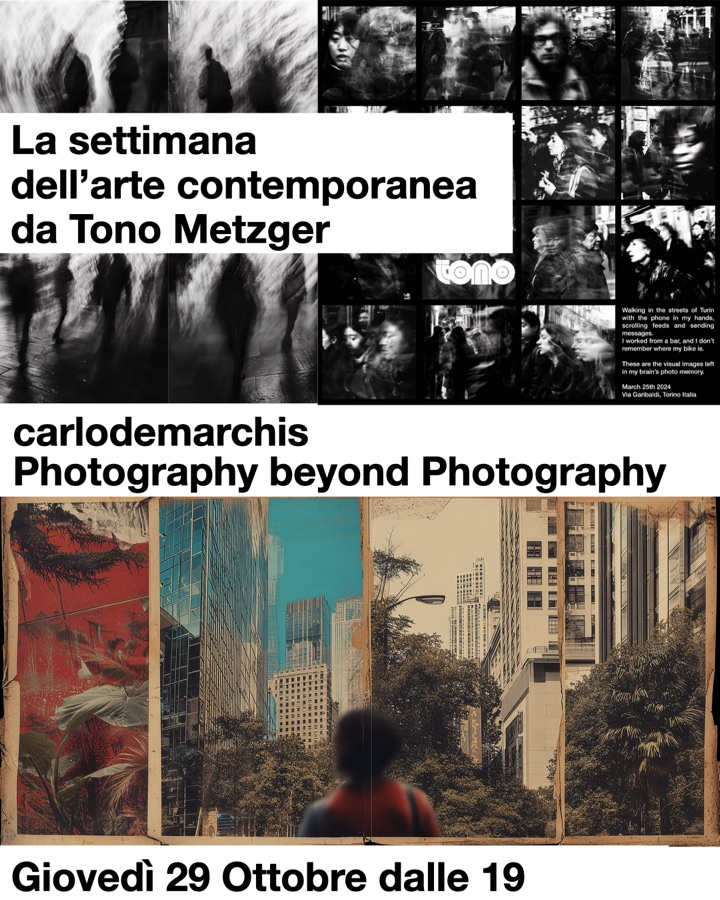
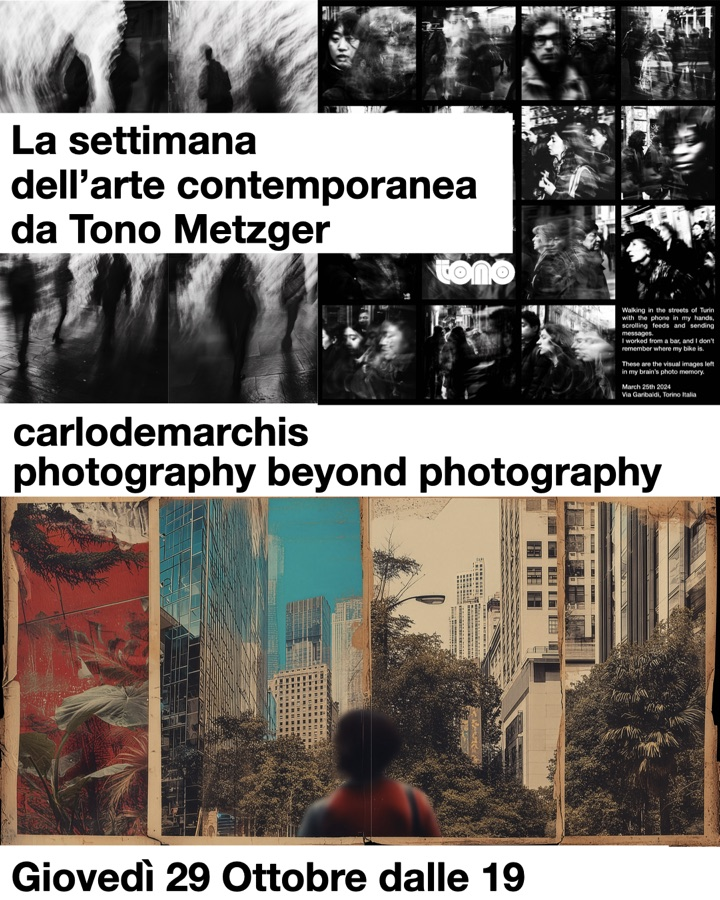
home hero: zoomed, darkened tempospazio backdrop on landscape screens

Changed region(s): [[0.0, 0.4978, 0.9167, 0.56]]

diff --git a/docs/style.css b/docs/style.css
@@ -55,7 +55,16 @@ p a{text-decoration:underline;text-underline-offset:3px}
 @media (max-width:640px){.top{flex-direction:column;align-items:flex-start;gap:14px}.nav{gap:18px;font-size:14px}}
 
 /* hero (home) */
-.hero{background:#000;color:#fff;display:grid;grid-template-columns:1.05fr 1fr;gap:clamp(24px,4vw,64px);padding:clamp(40px,7vw,96px) var(--gut);align-items:center}
+.hero{background:#000;color:#fff;display:grid;grid-template-columns:1.05fr 1fr;gap:clamp(24px,4vw,64px);padding:clamp(40px,7vw,96px) var(--gut);align-items:center;position:relative;overflow:hidden;isolation:isolate}
+.hero-bg{display:none}
+@media (orientation:landscape) and (min-width:861px){
+  .hero.has-bg{min-height:min(92vh,980px)}
+  .hero-bg{display:block;position:absolute;inset:-12%;width:124%;height:124%;object-fit:cover;object-position:50% 40%;z-index:-2;
+    transform:scale(1.9);transform-origin:52% 45%;image-rendering:pixelated;filter:grayscale(1) brightness(.32) contrast(1.25) saturate(0)}
+  .hero.has-bg::after{content:"";position:absolute;inset:0;z-index:-1;background:linear-gradient(90deg,rgba(0,0,0,.78) 0%,rgba(0,0,0,.45) 55%,rgba(0,0,0,.65) 100%),radial-gradient(120% 90% at 50% 50%,rgba(0,0,0,0) 40%,rgba(0,0,0,.7) 100%)}
+  .hero.has-bg .hero-sub{color:#d6d6d6}
+  .hero.has-bg .tile{box-shadow:0 30px 60px -30px rgba(0,0,0,.9)}
+}
 .hero-text{max-width:var(--max)}
 .hero-tag{font-size:clamp(20px,2.6vw,34px);font-weight:700;letter-spacing:-.03em;margin:18px 0 10px}
 .hero-sub{color:#bdbdbd;max-width:46ch;font-size:17px;margin:0 0 28px}

diff --git a/static/style.css b/static/style.css
@@ -55,7 +55,16 @@ p a{text-decoration:underline;text-underline-offset:3px}
 @media (max-width:640px){.top{flex-direction:column;align-items:flex-start;gap:14px}.nav{gap:18px;font-size:14px}}
 
 /* hero (home) */
-.hero{background:#000;color:#fff;display:grid;grid-template-columns:1.05fr 1fr;gap:clamp(24px,4vw,64px);padding:clamp(40px,7vw,96px) var(--gut);align-items:center}
+.hero{background:#000;color:#fff;display:grid;grid-template-columns:1.05fr 1fr;gap:clamp(24px,4vw,64px);padding:clamp(40px,7vw,96px) var(--gut);align-items:center;position:relative;overflow:hidden;isolation:isolate}
+.hero-bg{display:none}
+@media (orientation:landscape) and (min-width:861px){
+  .hero.has-bg{min-height:min(92vh,980px)}
+  .hero-bg{display:block;position:absolute;inset:-12%;width:124%;height:124%;object-fit:cover;object-position:50% 40%;z-index:-2;
+    transform:scale(1.9);transform-origin:52% 45%;image-rendering:pixelated;filter:grayscale(1) brightness(.32) contrast(1.25) saturate(0)}
+  .hero.has-bg::after{content:"";position:absolute;inset:0;z-index:-1;background:linear-gradient(90deg,rgba(0,0,0,.78) 0%,rgba(0,0,0,.45) 55%,rgba(0,0,0,.65) 100%),radial-gradient(120% 90% at 50% 50%,rgba(0,0,0,0) 40%,rgba(0,0,0,.7) 100%)}
+  .hero.has-bg .hero-sub{color:#d6d6d6}
+  .hero.has-bg .tile{box-shadow:0 30px 60px -30px rgba(0,0,0,.9)}
+}
 .hero-text{max-width:var(--max)}
 .hero-tag{font-size:clamp(20px,2.6vw,34px);font-weight:700;letter-spacing:-.03em;margin:18px 0 10px}
 .hero-sub{color:#bdbdbd;max-width:46ch;font-size:17px;margin:0 0 28px}

diff --git a/docs/index.html b/docs/index.html
@@ -11,7 +11,7 @@
 <meta property="og:description" content="Carlo De Marchis — photography beyond photography. AI-generated black and white photography for storytelling and social provocation. Projects, photobooks and exhibitions.">
 <meta property="og:image" content="https://art.carlodemarchis.it/img/project/123-afc15f.jpg"><meta name="twitter:card" content="summary_large_image">
 <link rel="icon" href="/favicon.svg" type="image/svg+xml">
-<link rel="stylesheet" href="/style.css?v=5">
+<link rel="stylesheet" href="/style.css?v=6">
 </head>
 <body class="page-home">
 <a class="skip" href="#main">Skip to content</a>
@@ -33,8 +33,8 @@
   </nav>
 </header>
 <main id="main">
-<section class="hero">
-  <div class="hero-text">
+<section class="hero has-bg">
+<img class="hero-bg" src="/img/site/251-94a0b2-s.jpg" width="2000" height="2000" alt="" aria-hidden="true">  <div class="hero-text">
     <h1 class="wordmark-xl">carlodemarchis</h1>
     <p class="hero-tag">photography beyond photography</p>
     <p class="hero-sub">AI-generated black & white photography for storytelling and social provocation — plus new work in colour.</p>

diff --git a/docs/projects/torino-moves/index.html b/docs/projects/torino-moves/index.html
@@ -11,7 +11,7 @@
 <meta property="og:description" content="A site-specific, room-specific, glass-specific AI photography project: a black and white Torino in movement, printed on the meeting-room glass of Reply&#39;s new headquarters — each image built from the letters of its own prompt.">
 <meta property="og:image" content="https://art.carlodemarchis.it/img/project/248-98f637.jpg"><meta name="twitter:card" content="summary_large_image">
 <link rel="icon" href="/favicon.svg" type="image/svg+xml">
-<link rel="stylesheet" href="/style.css?v=5">
+<link rel="stylesheet" href="/style.css?v=6">
 </head>
 <body class="page-projects">
 <a class="skip" href="#main">Skip to content</a>

diff --git a/docs/projects/index.html b/docs/projects/index.html
@@ -11,7 +11,7 @@
 <meta property="og:description" content="Carlo De Marchis — photography beyond photography. AI-generated black and white photography for storytelling and social provocation. Projects, photobooks and exhibitions.">
 <meta property="og:image" content="https://art.carlodemarchis.it/img/project/123-afc15f.jpg"><meta name="twitter:card" content="summary_large_image">
 <link rel="icon" href="/favicon.svg" type="image/svg+xml">
-<link rel="stylesheet" href="/style.css?v=5">
+<link rel="stylesheet" href="/style.css?v=6">
 </head>
 <body class="page-projects">
 <a class="skip" href="#main">Skip to content</a>

diff --git a/docs/exhibitions/index.html b/docs/exhibitions/index.html
@@ -11,7 +11,7 @@
 <meta property="og:description" content="Carlo De Marchis — photography beyond photography. AI-generated black and white photography for storytelling and social provocation. Projects, photobooks and exhibitions.">
 <meta property="og:image" content="https://art.carlodemarchis.it/img/project/123-afc15f.jpg"><meta name="twitter:card" content="summary_large_image">
 <link rel="icon" href="/favicon.svg" type="image/svg+xml">
-<link rel="stylesheet" href="/style.css?v=5">
+<link rel="stylesheet" href="/style.css?v=6">
 </head>
 <body class="page-events">
 <a class="skip" href="#main">Skip to content</a>

diff --git a/docs/about/index.html b/docs/about/index.html
@@ -11,7 +11,7 @@
 <meta property="og:description" content="Carlo De Marchis — photography beyond photography. AI-generated black and white photography for storytelling and social provocation. Projects, photobooks and exhibitions.">
 <meta property="og:image" content="https://art.carlodemarchis.it/img/project/123-afc15f.jpg"><meta name="twitter:card" content="summary_large_image">
 <link rel="icon" href="/favicon.svg" type="image/svg+xml">
-<link rel="stylesheet" href="/style.css?v=5">
+<link rel="stylesheet" href="/style.css?v=6">
 </head>
 <body class="page-about">
 <a class="skip" href="#main">Skip to content</a>

diff --git a/docs/photobooks/index.html b/docs/photobooks/index.html
@@ -11,7 +11,7 @@
 <meta property="og:description" content="Carlo De Marchis — photography beyond photography. AI-generated black and white photography for storytelling and social provocation. Projects, photobooks and exhibitions.">
 <meta property="og:image" content="https://art.carlodemarchis.it/img/project/123-afc15f.jpg"><meta name="twitter:card" content="summary_large_image">
 <link rel="icon" href="/favicon.svg" type="image/svg+xml">
-<link rel="stylesheet" href="/style.css?v=5">
+<link rel="stylesheet" href="/style.css?v=6">
 </head>
 <body class="page-books">
 <a class="skip" href="#main">Skip to content</a>

diff --git a/docs/404.html b/docs/404.html
@@ -11,7 +11,7 @@
 <meta property="og:description" content="Carlo De Marchis — photography beyond photography. AI-generated black and white photography for storytelling and social provocation. Projects, photobooks and exhibitions.">
 <meta property="og:image" content="https://art.carlodemarchis.it/img/project/123-afc15f.jpg"><meta name="twitter:card" content="summary_large_image">
 <link rel="icon" href="/favicon.svg" type="image/svg+xml">
-<link rel="stylesheet" href="/style.css?v=5">
+<link rel="stylesheet" href="/style.css?v=6">
 </head>
 <body class="page-404">
 <a class="skip" href="#main">Skip to content</a>

diff --git a/docs/projects/they-are-staring-at-us/index.html b/docs/projects/they-are-staring-at-us/index.html
@@ -11,7 +11,7 @@
 <meta property="og:description" content="AI-generated children&#39;s faces, precisely simulated despair: an unspoken accusation of intergenerational betrayal, from climate inaction to the digital divide.">
 <meta property="og:image" content="https://art.carlodemarchis.it/img/project/28-f38433.jpg"><meta name="twitter:card" content="summary_large_image">
 <link rel="icon" href="/favicon.svg" type="image/svg+xml">
-<link rel="stylesheet" href="/style.css?v=5">
+<link rel="stylesheet" href="/style.css?v=6">
 </head>
 <body class="page-projects">
 <a class="skip" href="#main">Skip to content</a>

diff --git a/docs/projects/walking-in-the-streets-of-turin/index.html b/docs/projects/walking-in-the-streets-of-turin/index.html
@@ -11,7 +11,7 @@
 <meta property="og:description" content="One walk down Via Garibaldi, attention split between the street and the screen, remembered through an AI: a psychogeographic dérive in blurred black and white.">
 <meta property="og:image" content="https://art.carlodemarchis.it/img/project/40-f0b43c.jpg"><meta name="twitter:card" content="summary_large_image">
 <link rel="icon" href="/favicon.svg" type="image/svg+xml">
-<link rel="stylesheet" href="/style.css?v=5">
+<link rel="stylesheet" href="/style.css?v=6">
 </head>
 <body class="page-projects">
 <a class="skip" href="#main">Skip to content</a>

diff --git a/docs/projects/quiet-chaos/index.html b/docs/projects/quiet-chaos/index.html
@@ -11,7 +11,7 @@
 <meta property="og:description" content="Colour collages where façades, tramlines and palms share the same page: a way of imagining how we may live next, with the trees as the real urban planners.">
 <meta property="og:image" content="https://art.carlodemarchis.it/img/project/247-ce577a.jpg"><meta name="twitter:card" content="summary_large_image">
 <link rel="icon" href="/favicon.svg" type="image/svg+xml">
-<link rel="stylesheet" href="/style.css?v=5">
+<link rel="stylesheet" href="/style.css?v=6">
 </head>
 <body class="page-projects">
 <a class="skip" href="#main">Skip to content</a>
